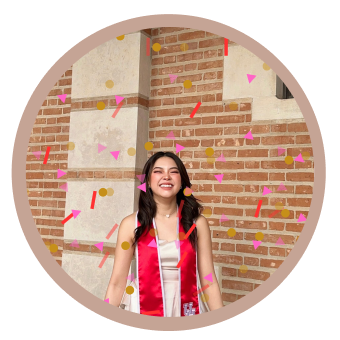
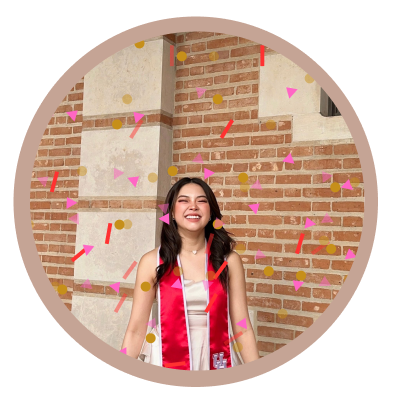
circle img adjust

diff --git a/portfolio/src/App.css b/portfolio/src/App.css
@@ -58,7 +58,7 @@ html, body {
 /*Home Circle Image*/
 .HomeCircle {
   position: absolute;
-  right: 28%;
+  right: 30%;
   top: 50%;
   transform: translateY(-50%);
   width: 15vw; /* Start with a responsive width */
